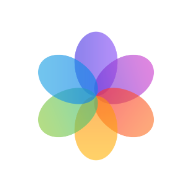
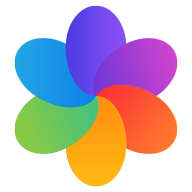
Fix PWA assets & config

diff --git a/web/vite.config.ts b/web/vite.config.ts
@@ -12,16 +12,16 @@ const repoName = 'Photos'
 
 const proxyConfig = {
   '/api': {
-    target: 'http://localhost:5272',
+    target: 'http://127.0.0.1:5272',
     changeOrigin: true,
     ws: true,
   },
   '/thumbnails': {
-    target: 'http://localhost:5272',
+    target: 'http://127.0.0.1:5272',
     changeOrigin: true,
   },
   '/hosted': {
-    target: 'http://localhost:5272',
+    target: 'http://127.0.0.1:5272',
     changeOrigin: true,
   },
 }
@@ -56,27 +56,80 @@ export default defineConfig({
         short_name: 'Photos',
         description: 'Manage your photos and videos',
         theme_color: '#101010',
-        background_color: '#101010',
+        background_color: '#ffffff',
         display: 'standalone',
         start_url: '.',
+        screenshots: [
+          {
+            src: 'screenshots/desktop/timeline.png',
+            sizes: '1758x989',
+            type: 'image/png',
+            form_factor: 'wide',
+            label: 'Main timeline view',
+          },
+          {
+            src: 'screenshots/desktop/map.png',
+            sizes: '1758x989',
+            type: 'image/png',
+            form_factor: 'wide',
+            label: 'Interactive map view',
+          },
+          {
+            src: 'screenshots/desktop/location.png',
+            sizes: '1758x989',
+            type: 'image/png',
+            form_factor: 'wide',
+            label: 'Browse by various collections',
+          },
+          {
+            src: 'screenshots/desktop/search.png',
+            sizes: '1758x989',
+            type: 'image/png',
+            form_factor: 'wide',
+            label: 'Advanced search',
+          },
+          {
+            src: 'screenshots/desktop/explore.png',
+            sizes: '1758x989',
+            type: 'image/png',
+            form_factor: 'wide',
+            label: 'Explore your stats & places',
+          },
+          {
+            src: 'screenshots/mobile/temp.png',
+            sizes: '428x953',
+            type: 'image/png',
+            form_factor: 'narrow',
+            label: 'Mobile timeline view',
+          },
+        ],
         icons: [
           {
             src: 'favicon-96x96.png',
             sizes: '96x96',
             type: 'image/png',
+            purpose: 'any',
           },
           {
             src: 'web-app-manifest-192x192.png',
             sizes: '192x192',
             type: 'image/png',
+            purpose: 'any',
           },
           {
             src: 'web-app-manifest-512x512.png',
             sizes: '512x512',
             type: 'image/png',
+            purpose: 'any',
           },
           {
-            src: 'web-app-manifest-512x512.png',
+            src: 'web-app-manifest-maskable-192x192.png',
+            sizes: '192x192',
+            type: 'image/png',
+            purpose: 'maskable',
+          },
+          {
+            src: 'web-app-manifest-maskable-512x512.png',
             sizes: '512x512',
             type: 'image/png',
             purpose: 'maskable',

diff --git a/TODO.md b/TODO.md
@@ -30,6 +30,7 @@
 * duplicate photo remover tool
 * better error if exiftool isnt there (worker wont work then)
 * apply rotation immidiately when going next/prev to other media item.
+* AVI toevoegen aan settings video_extensions
 
 # INFRASTRUCTURE:
 
